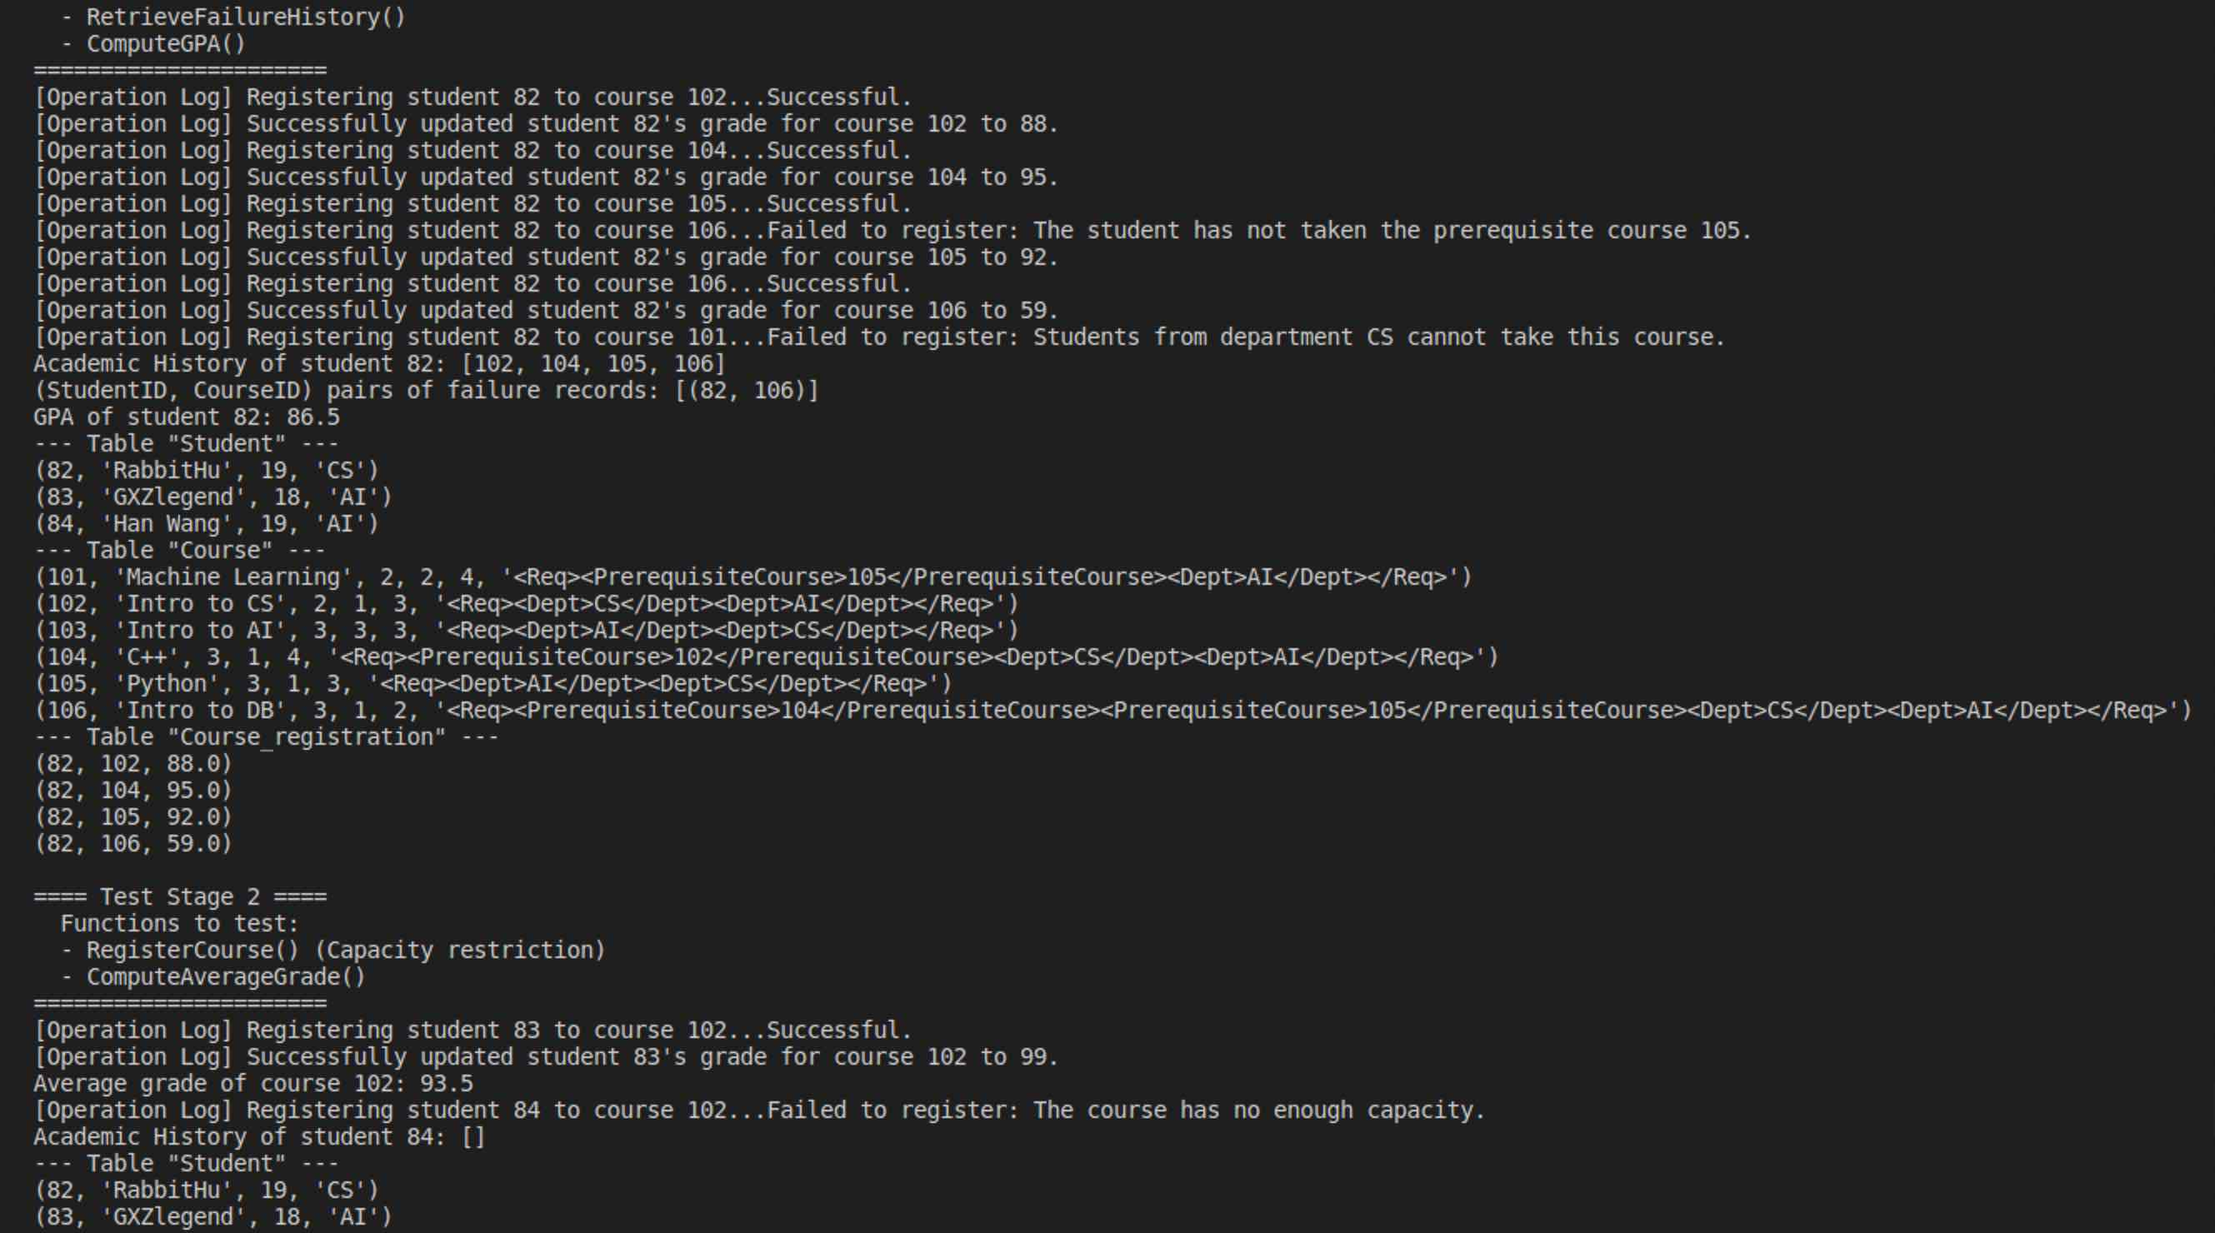
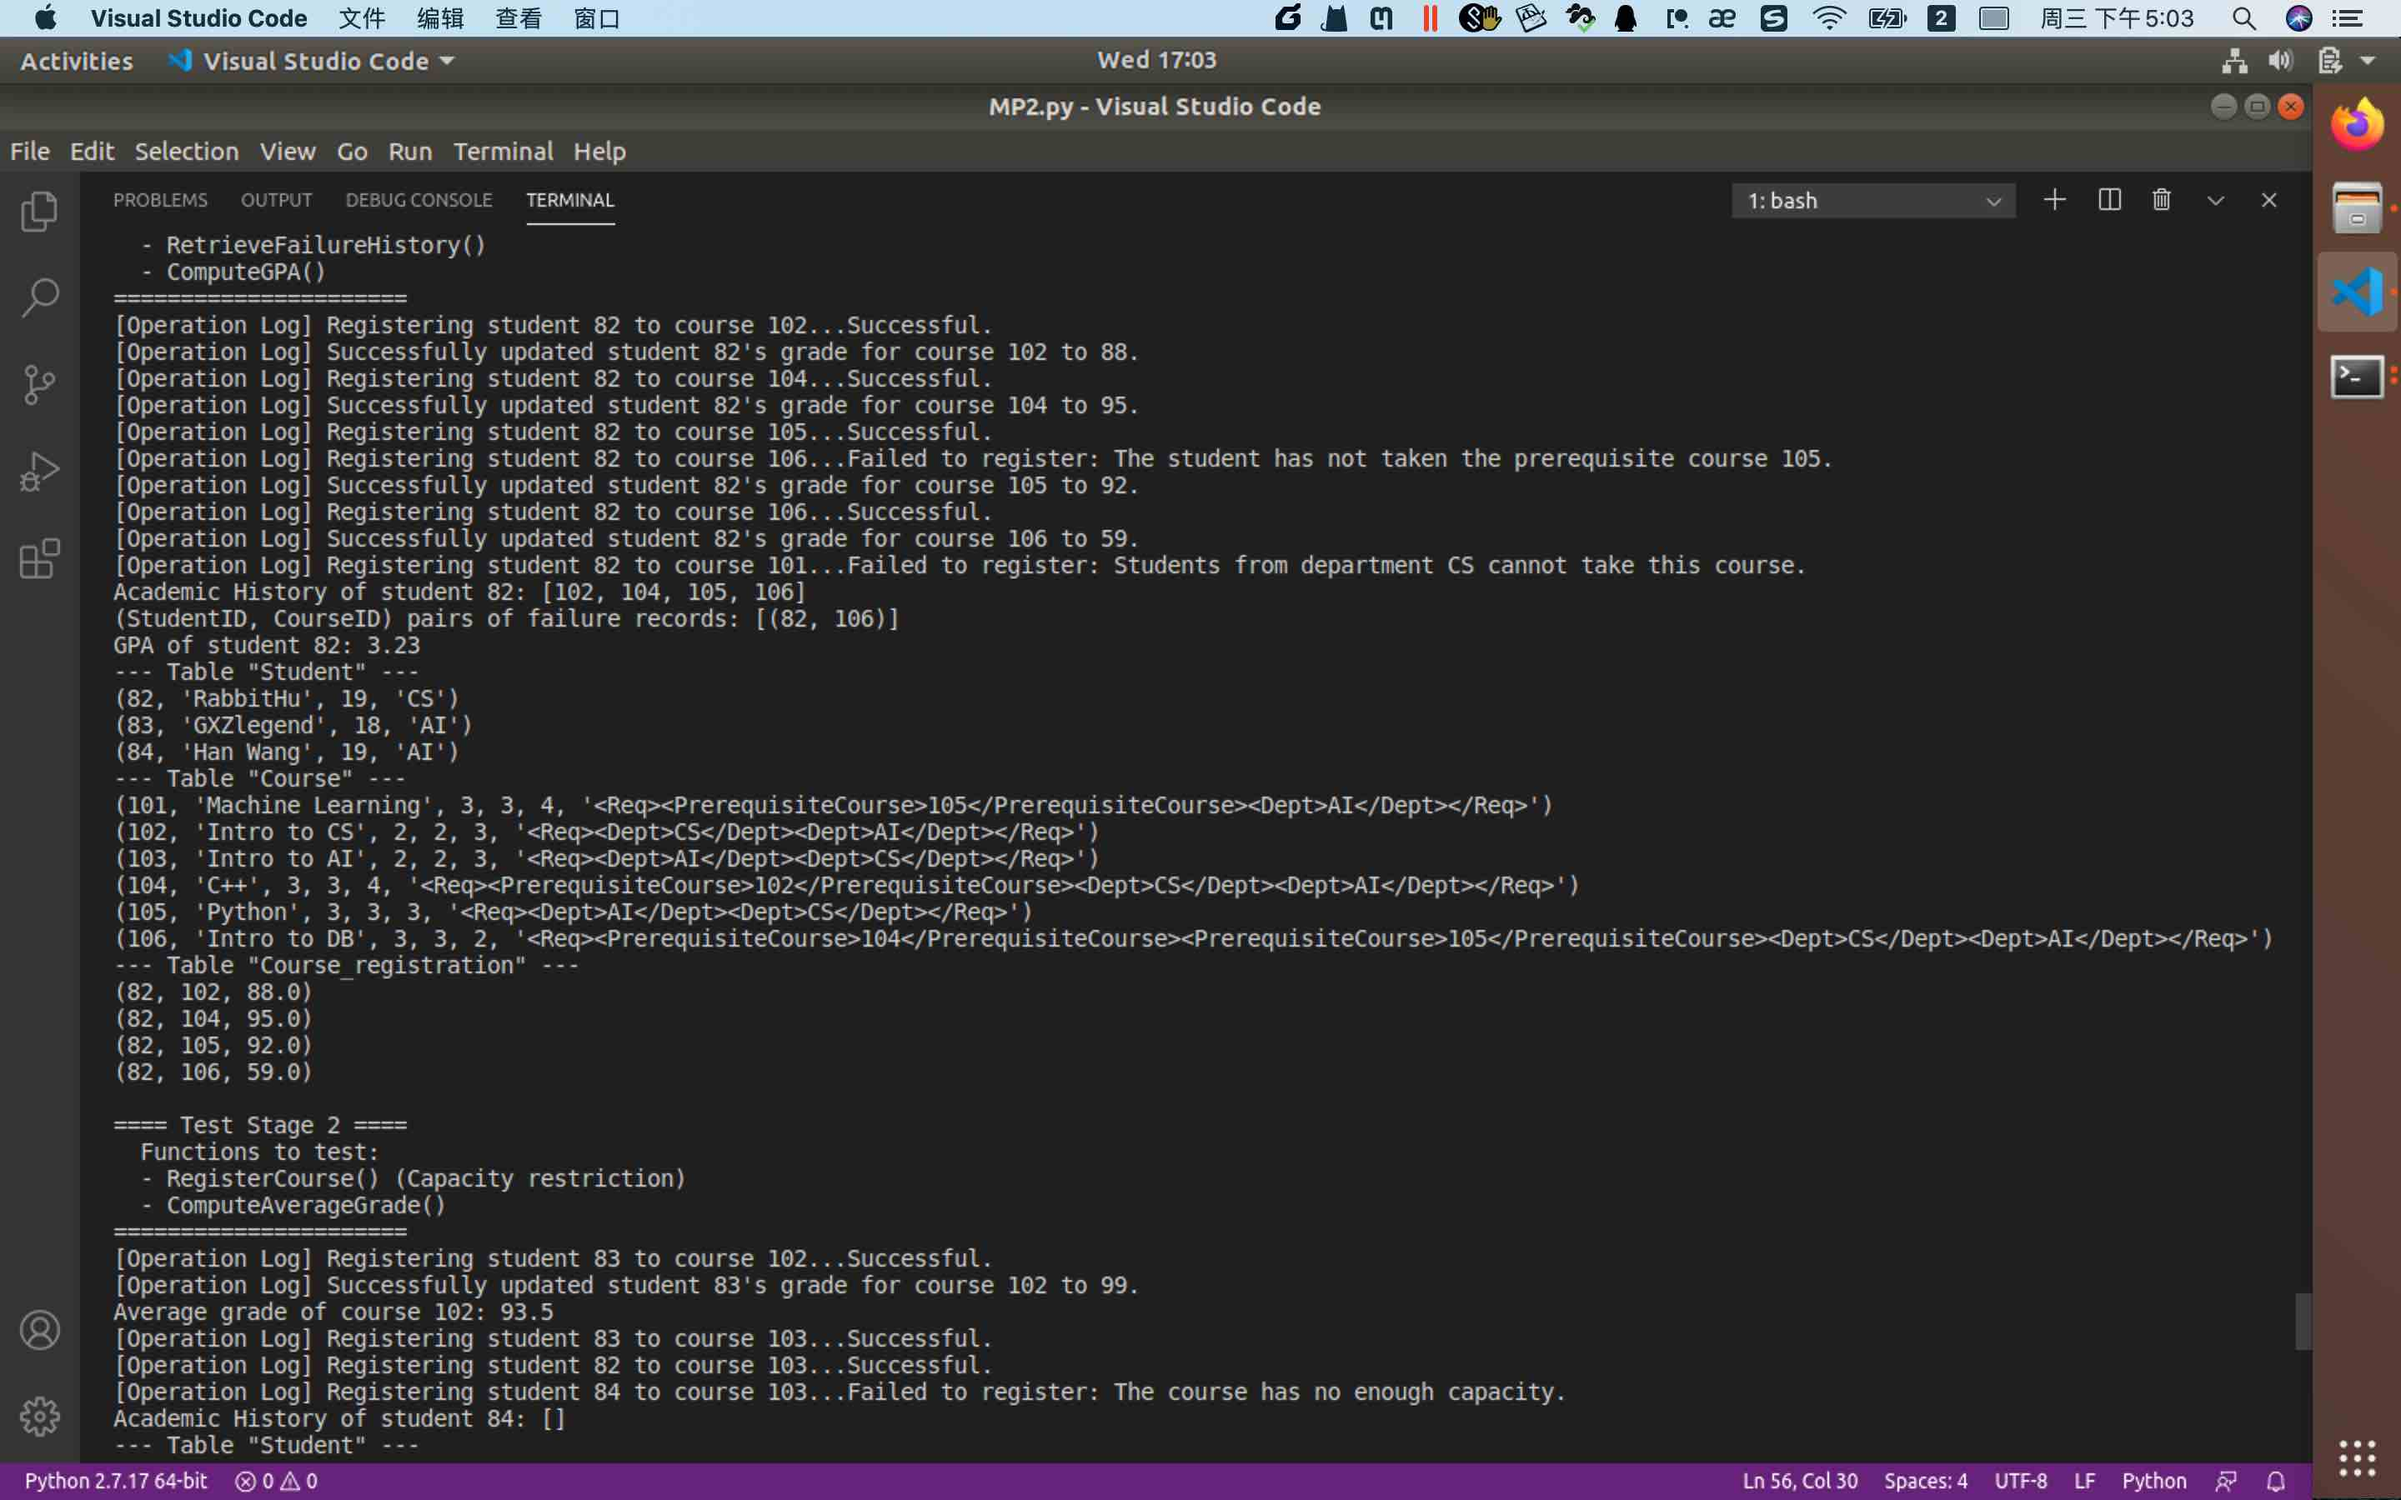
update GPA

diff --git a/MP2/MP2.py b/MP2/MP2.py
@@ -40,7 +40,9 @@ def ConnectDatabase():
                         BEGIN
                             UPDATE Course SET RemainCapacity = (
                                 SELECT Capacity - (
-                                    SELECT COUNT(*) FROM Course_registration WHERE CourseID = INSERTED.CourseID
+                                    SELECT COUNT(*) FROM Course_registration
+                                    WHERE CourseID = INSERTED.CourseID
+                                    AND Grade IS NULL
                                 )
                                 FROM Course WHERE CourseID = INSERTED.CourseID
                             )
@@ -49,16 +51,19 @@ def ConnectDatabase():
                         END''')
     cursor.execute(  '''CREATE TRIGGER Update_RemainCapacity_when_modify_registration
                         ON Course_registration
-                        AFTER INSERT, DELETE
+                        AFTER INSERT, UPDATE, DELETE
                         AS
                         BEGIN
                             UPDATE Course SET RemainCapacity = RemainCapacity - 1
                             FROM INSERTED
-                            WHERE Course.CourseID = INSERTED.CourseID;
+                            WHERE Course.CourseID = INSERTED.CourseID
+                            AND INSERTED.Grade IS NULL;
                             UPDATE Course SET RemainCapacity = RemainCapacity + 1
                             FROM DELETED
-                            WHERE Course.CourseID = DELETED.CourseID;
+                            WHERE Course.CourseID = DELETED.CourseID
+                            AND DELETED.Grade IS NULL;
                         END''')
+    # Grading a student means that the student has completed the course, and hence does not take up capacity any more
     connect.commit()
     print('[Operation Log] Successfully connected to the database.')
     return connect, cursor
@@ -102,7 +107,7 @@ def DeleteCourse(ID):
     print('[Operation Log] Successfully deleted course {}.'.format(ID))
 
 def EnrolledStudent(ID):
-    cursor.execute('SELECT COUNT(*) FROM Course_registration WHERE CourseID = ?;', ID) # No grade means new students
+    cursor.execute('SELECT COUNT(*) FROM Course_registration WHERE CourseID = ? AND Grade IS NULL;', ID) # No grade means new students
     row = cursor.fetchone()
     connect.commit()
     return row[0]
@@ -193,7 +198,23 @@ def UpdateGrade(studentID, courseID, new_grade):
     print("[Operation Log] Successfully updated student {}'s grade for course {} to {}.".format(studentID, courseID, new_grade))
 
 def ComputeGPA(studentID): 
-    cursor.execute("SELECT SUM(Course_registration.Grade * Course.CreditHour) / SUM(Course.CreditHour) FROM Course_registration, Course WHERE StudentID = ? AND Course_registration.CourseID = Course.CourseID AND Course_registration.Grade IS NOT NULL", studentID)
+    cursor.execute(  '''SELECT SUM((
+                            CASE
+                            WHEN Grade >= 90 THEN 4.0
+                            WHEN Grade >= 85 THEN 3.6
+                            WHEN Grade >= 80 THEN 3.3
+                            WHEN Grade >= 77 THEN 3.0
+                            WHEN Grade >= 73 THEN 2.6
+                            WHEN Grade >= 70 THEN 2.0
+                            WHEN Grade >= 63 THEN 1.6
+                            WHEN Grade >= 60 THEN 1.3
+                            ELSE 0.0
+                            END
+                        )* Course.CreditHour) / SUM(Course.CreditHour) 
+                        FROM Course_registration, Course 
+                        WHERE StudentID = ? 
+                        AND Course_registration.CourseID = Course.CourseID 
+                        AND Course_registration.Grade IS NOT NULL''', studentID)
     ret = cursor.fetchone()[0]
     connect.commit()
     return ret
@@ -234,15 +255,10 @@ InsertStudent(82, 'Xiaodi Yuan', 19, 'AI') # This student should NOT be inserted
 InsertStudent(84, 'Han Wang', 19, 'AI')
 PrintTable('Student') # Check if the students insertion is right
 
-# Prevent SQL insertion
-
-InsertCourse(233, "SQL Insertion", 2, 4, "<Req><Dept> * FROM Course;) DROP TABLE Coourse; -- </Dept></Req>")
-CheckRequirement(82, 233)
-
 # Insert some courses.
-InsertCourse(101, 'Machine Learning', 2, 4, '<Req><PrerequisiteCourse>105</PrerequisiteCourse><Dept>AI</Dept></Req>')
+InsertCourse(101, 'Machine Learning', 3, 4, '<Req><PrerequisiteCourse>105</PrerequisiteCourse><Dept>AI</Dept></Req>')
 InsertCourse(102, 'Intro to CS', 2, 3, '<Req><Dept>CS</Dept><Dept>AI</Dept></Req>')
-InsertCourse(103, 'Intro to AI', 3, 3, '<Req><Dept>AI</Dept><Dept>CS</Dept></Req>')
+InsertCourse(103, 'Intro to AI', 2, 3, '<Req><Dept>AI</Dept><Dept>CS</Dept></Req>')
 InsertCourse(104, 'C++', 3, 4, '<Req><PrerequisiteCourse>102</PrerequisiteCourse><Dept>CS</Dept><Dept>AI</Dept></Req>')
 InsertCourse(105, 'Python', 3, 3, '<Req><Dept>AI</Dept><Dept>CS</Dept></Req>')
 InsertCourse(106, 'Intro to DB', 3, 2, '''<Req>
@@ -276,7 +292,7 @@ UpdateGrade(82, 106, 59)
 RegisterCourse(82, 101) # Should fail because only AI students can register for course 101
 print('Academic History of student 82: ' + str(RetrieveAcademicHistory(82)))
 print('(StudentID, CourseID) pairs of failure records: ' + str(RetrieveFailureHistory()))
-print('GPA of student 82: ' + str(ComputeGPA(82))) # Should get (88*3 + 95*4 + 92*3 + 59*2)/(3+4+3+2) = 86.50
+print('GPA of student 82: %.2f' % (ComputeGPA(82))) # Should get (3*3.6+7*4)/12 = 3.23
 PrintAll() # Check all the tables
 
 print('''\n==== Test Stage 2 ====
@@ -287,7 +303,10 @@ print('''\n==== Test Stage 2 ====
 RegisterCourse(83, 102)
 UpdateGrade(83, 102, 99)
 print('Average grade of course 102: ' + str(ComputeAverageGrade(102))) # Should get (88+99)/2 = 93.5
-RegisterCourse(84, 102) # Should fail because there's no capacity
+
+RegisterCourse(83, 103)
+RegisterCourse(82, 103)
+RegisterCourse(84, 103) # Should fail because there's no capacity
 print('Academic History of student 84: ' + str(RetrieveAcademicHistory(84))) # To check
 PrintAll() # Check all the tables
 
@@ -300,11 +319,11 @@ print('''\n==== Test Stage 3 ====
 PrintAll() # Before delete, there's a record about student 83
 DeleteStudent(83)
 PrintAll() # After delete, there's no records about student 83
-RegisterCourse(84, 102) # Should succeed this time
-UpdateCapacity(102, 1) # Should fail because 2 students (82 and 84) have registered for course 102
-RemoveRegistration(84, 102)
-UpdateCapacity(102, 1) # Should succeed this time
-print("{} students have enrolled in course 102.".format(EnrolledStudent(102))) # Only 1 student (student 82)
+RegisterCourse(84, 103) # Should succeed this time
+UpdateCapacity(103, 1) # Should fail because 2 students (82 and 84) have registered for course 103
+RemoveRegistration(84, 103)
+UpdateCapacity(103, 1) # Should succeed this time
+print("{} students have enrolled in course 102.".format(EnrolledStudent(103))) # Only 1 student (student 82)
 DeleteCourse(102)
 PrintAll()
 
